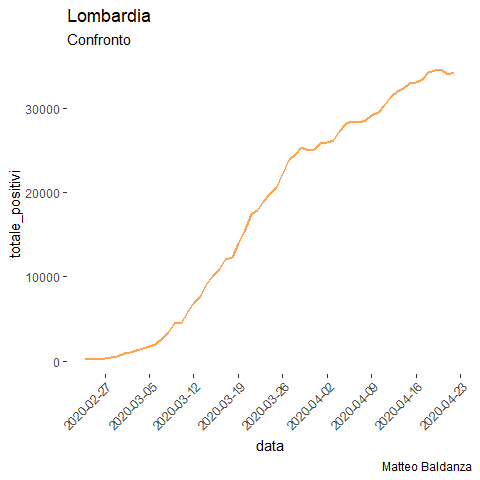
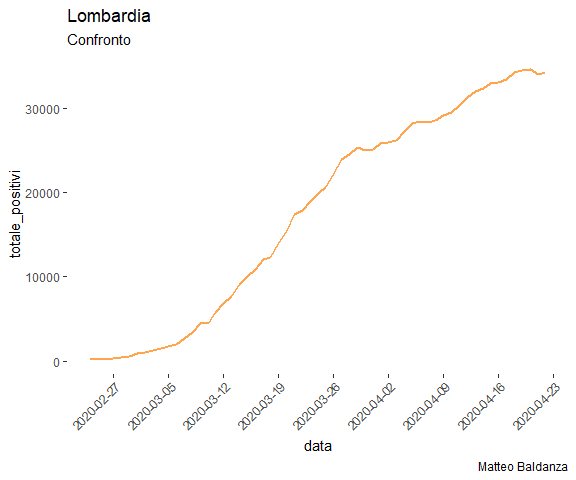
covid19

diff --git a/covid-19.md b/covid-19.md
@@ -139,7 +139,7 @@ ggplot(dat_csv)+
   theme(axis.text.x = element_text(angle=45,hjust=1))
 ```
 
-![](covid-19_files/figure-gfm/unnamed-chunk-3-1.png)<!-- -->
+<img src="covid-19_files/figure-gfm/unnamed-chunk-3-1.png" style="display: block; margin: auto;" />
 
 Ieri per la prima volta è stata raggiunto un numero negativo di nuovi
 casi. Questo risultato ci indica che il numero dei positivi e dimessi è
@@ -174,7 +174,7 @@ ggplot(dat_csv)+
     ## `geom_smooth()` using method = 'loess' and formula 'y ~ x'
     ## `geom_smooth()` using method = 'loess' and formula 'y ~ x'
 
-![](covid-19_files/figure-gfm/unnamed-chunk-4-1.png)<!-- -->
+<img src="covid-19_files/figure-gfm/unnamed-chunk-4-1.png" style="display: block; margin: auto;" />
 
 Queste due curve rappresentano le serie storiche dei positivi/ricoveri.
 La linea arancione tratteggiata indica lo 0 . Le curve in nero sono
@@ -198,7 +198,7 @@ ggplot(dat_csv)+
   labs(caption = "Matteo Baldanza")
 ```
 
-![](covid-19_files/figure-gfm/unnamed-chunk-5-1.png)<!-- -->
+<img src="covid-19_files/figure-gfm/unnamed-chunk-5-1.png" style="display: block; margin: auto;" />
 
 Quello che però non viene detto è che questi dati,che sono quelli
 comunicati quotidianamente,non rappresentano il vero numero di nuovi
@@ -308,7 +308,7 @@ theme(legend.justification=c(1,0), legend.position=c(1,0.5))+
 seir
 ```
 
-![](covid-19_files/figure-gfm/unnamed-chunk-7-1.png)<!-- -->
+<img src="covid-19_files/figure-gfm/unnamed-chunk-7-1.png" style="display: block; margin: auto;" />
 
 Quello che possiamo concludere è :
 
